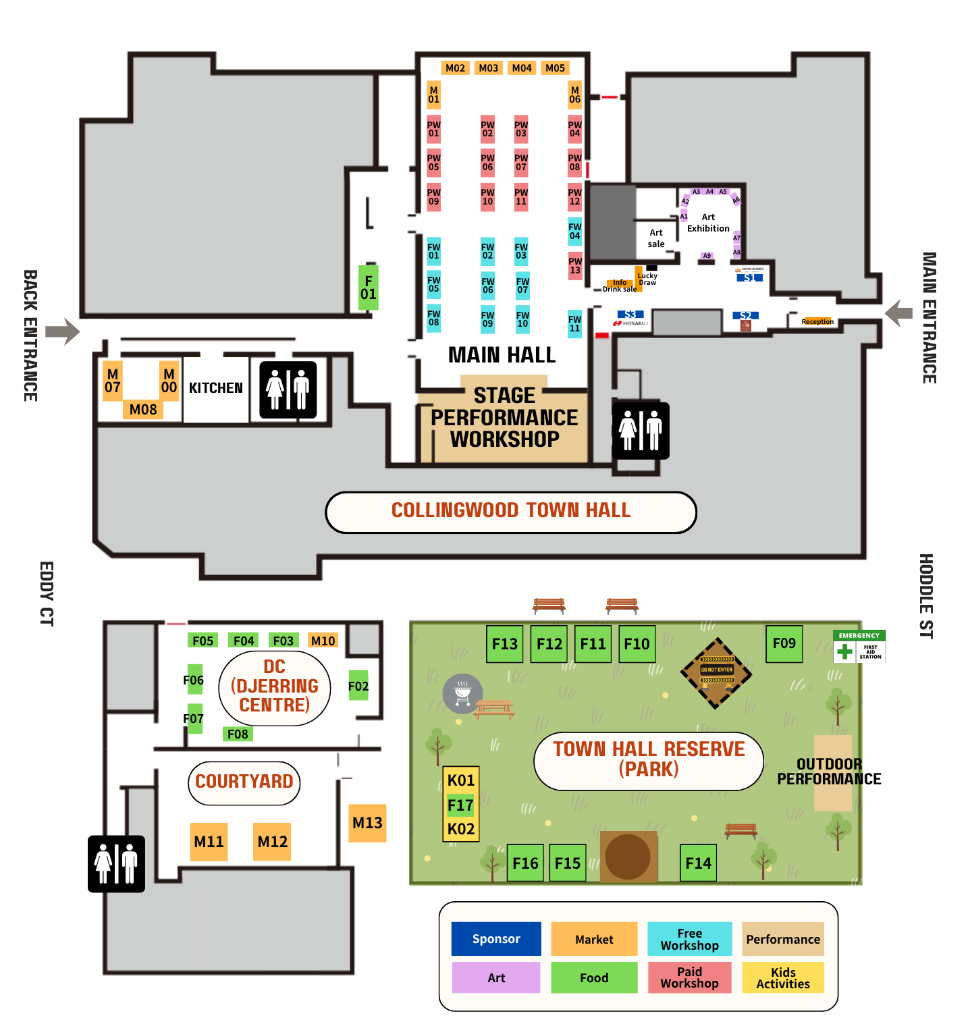
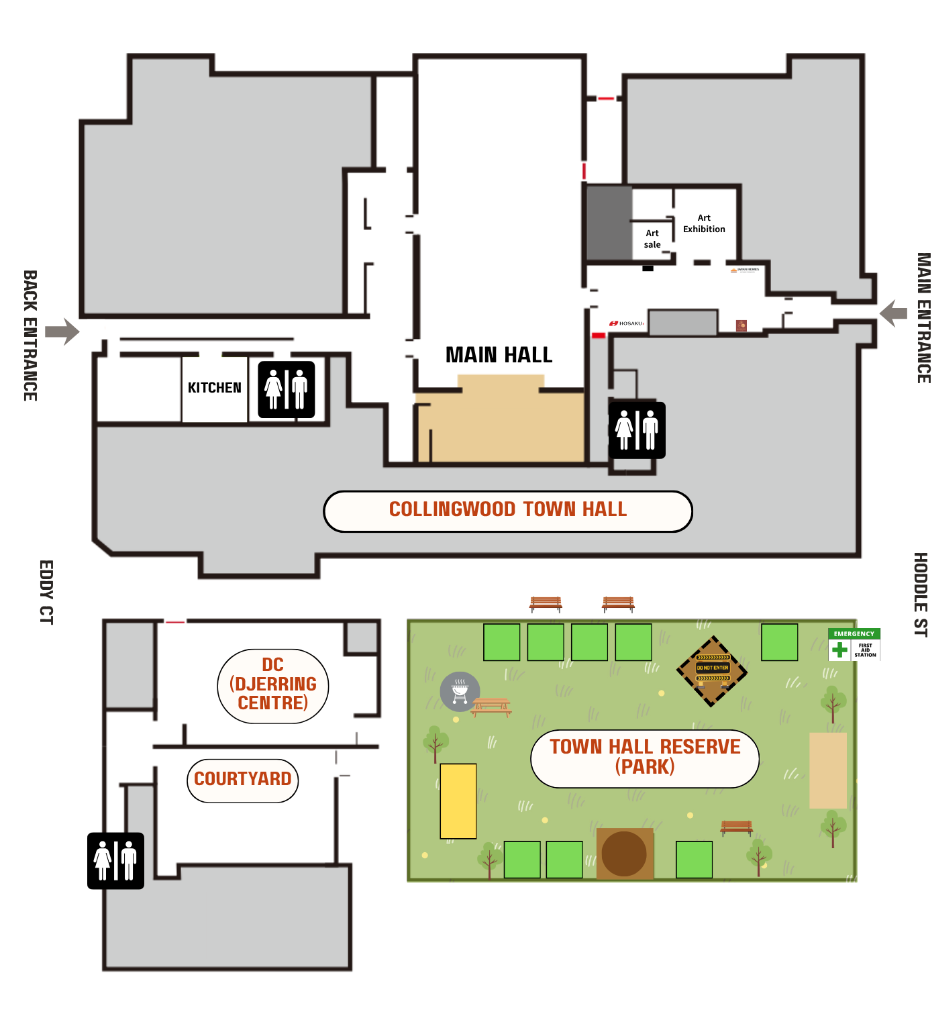
feat: 新しい会場マップ画像への差し替えとスプレッドシートのマップX/Y座標優先反映に対応

diff --git a/src/services/sheetService.ts b/src/services/sheetService.ts
@@ -124,6 +124,7 @@ export function convertToCsvExportUrl(inputUrl: string, gid?: string): string {
 async function fetchAndParseCsv<T>(url: string): Promise<T[]> {
   const response = await fetch(url, {
     method: 'GET',
+    cache: 'no-store',
     headers: {
       'Accept': 'text/csv,text/plain,*/*'
     }
@@ -320,8 +321,8 @@ function parseStallRow(
   const descriptionEn = getVal(row, 'descriptionEn', 'description_en', 'descEn', '英語紹介文') || descriptionJa;
 
   const boothCoord = getBoothCoordinates(boothNumber);
-  const rawMapX = Number(getVal(row, 'mapX', 'map_x', 'X', 'x', 'マップX', 'X座標'));
-  const rawMapY = Number(getVal(row, 'mapY', 'map_y', 'Y', 'y', 'マップY', 'Y座標'));
+  const rawMapX = Number(getVal(row, 'mapX', 'map_x', 'X', 'x', 'Ｘ', 'マップX', 'マップＸ', 'X座標', 'Ｘ座標'));
+  const rawMapY = Number(getVal(row, 'mapY', 'map_y', 'Y', 'y', 'Ｙ', 'マップY', 'マップＹ', 'Y座標', 'Ｙ座標'));
   const mapX = !isNaN(rawMapX) && rawMapX > 0 ? rawMapX : (boothCoord ? boothCoord.x : 50);
   const mapY = !isNaN(rawMapY) && rawMapY > 0 ? rawMapY : (boothCoord ? boothCoord.y : 50);
 
@@ -675,8 +676,8 @@ export async function loadFacilitiesData(): Promise<{ data: Facility[]; isFromRe
           const descJa = getVal(row, 'descJa', 'desc', 'descriptionJa', 'description', '説明', '詳細', '案内', '場所');
           const descEn = getVal(row, 'descEn', 'desc_en', 'descriptionEn', '英語説明', '英語詳細') || descJa;
 
-          const rawX = Number(getVal(row, 'mapX', 'map_x', 'X', 'x', 'マップX', 'X座標'));
-          const rawY = Number(getVal(row, 'mapY', 'map_y', 'Y', 'y', 'マップY', 'Y座標'));
+          const rawX = Number(getVal(row, 'mapX', 'map_x', 'X', 'x', 'Ｘ', 'マップX', 'マップＸ', 'X座標', 'Ｘ座標'));
+          const rawY = Number(getVal(row, 'mapY', 'map_y', 'Y', 'y', 'Ｙ', 'マップY', 'マップＹ', 'Y座標', 'Ｙ座標'));
 
           return {
             id: getVal(row, 'id', 'ID') || `fac-${index + 1}`,

diff --git a/src/components/MapView.tsx b/src/components/MapView.tsx
@@ -116,8 +116,11 @@ export const MapView: React.FC<MapViewProps> = ({
     };
   } | null>(null);
 
-  // ブースの座標解決ヘルパー
+  // ブースの座標解決ヘルパー（スプレッドシートのマップX/Yを最優先、未設定時はブース番号座標にフォールバック）
   const getStallCoord = (stall: Stall) => {
+    if (typeof stall.mapX === 'number' && typeof stall.mapY === 'number' && (stall.mapX !== 50 || stall.mapY !== 50)) {
+      return { x: stall.mapX, y: stall.mapY };
+    }
     const boothCoord = getBoothCoordinates(stall.boothNumber);
     if (boothCoord) {
       return { x: boothCoord.x, y: boothCoord.y };
@@ -660,7 +663,7 @@ export const MapView: React.FC<MapViewProps> = ({
         >
           {/* 公式会場マップ画像 */}
           <img
-            src="/venue-map.png"
+            src="/venue-map.png?v=2"
             alt="JCAF Venue Map"
             className={styles.mapImage}
             draggable={false}
